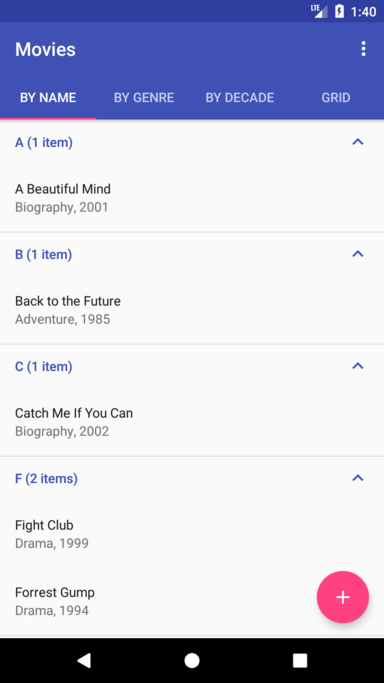
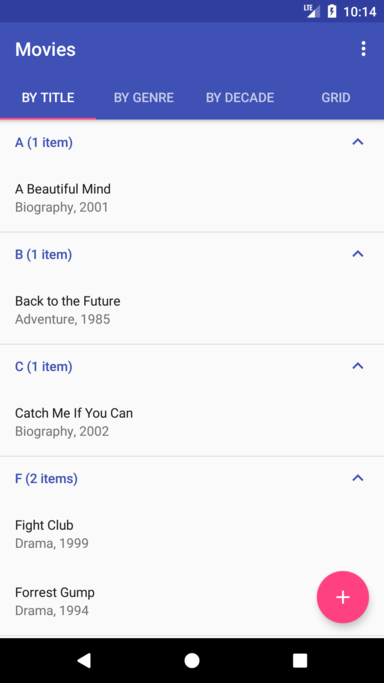
Update sample app. Update art

diff --git a/sample/src/main/java/zhukic/sample/adapters/MovieAdapterByTitle.java b/sample/src/main/java/zhukic/sample/adapters/MovieAdapterByTitle.java
@@ -7,25 +7,25 @@ import java.util.List;
 import zhukic.sample.Movie;
 import zhukic.sectionedrecyclerview.R;
 
-public class MovieAdapterByName extends BaseMovieAdapter {
+public class MovieAdapterByTitle extends BaseMovieAdapter {
 
-    public MovieAdapterByName(List<Movie> itemList) {
+    public MovieAdapterByTitle(List<Movie> itemList) {
         super(itemList);
     }
 
     @Override
     public boolean onPlaceSubheaderBetweenItems(int position) {
-        final char movieFirstCharacter = movieList.get(position).getName().charAt(0);
-        final char nextMovieFirstCharacter = movieList.get(position + 1).getName().charAt(0);
+        final char movieTitleFirstCharacter = movieList.get(position).getTitle().charAt(0);
+        final char nextMovieTitleFirstCharacter = movieList.get(position + 1).getTitle().charAt(0);
 
-        return movieFirstCharacter != nextMovieFirstCharacter;
+        return movieTitleFirstCharacter != nextMovieTitleFirstCharacter;
     }
 
     @Override
     public void onBindItemViewHolder(final MovieViewHolder holder, final int position) {
         final Movie movie = movieList.get(position);
 
-        holder.textMovieName.setText(movie.getName());
+        holder.textMovieTitle.setText(movie.getTitle());
         holder.textMovieGenre.setText(movie.getGenre());
         holder.textMovieYear.setText(String.valueOf(movie.getYear()));
 
@@ -38,10 +38,10 @@ public class MovieAdapterByName extends BaseMovieAdapter {
         final Context context = subheaderHolder.itemView.getContext();
         final Movie nextMovie = movieList.get(nextItemPosition);
         final int sectionSize = getSectionSize(getSectionIndex(subheaderHolder.getAdapterPosition()));
-        final String name = nextMovie.getName().substring(0, 1);
+        final String title = nextMovie.getTitle().substring(0, 1);
         final String subheaderText = String.format(
                 context.getString(R.string.subheader),
-                name,
+                title,
                 context.getResources().getQuantityString(R.plurals.item, sectionSize, sectionSize)
         );
         subheaderHolder.mSubheaderText.setText(subheaderText);

diff --git a/sample/src/main/java/zhukic/sample/MovieFragment.java b/sample/src/main/java/zhukic/sample/MovieFragment.java
@@ -22,7 +22,7 @@ import java.util.List;
 import zhukic.sample.adapters.BaseMovieAdapter;
 import zhukic.sample.adapters.MovieAdapterByDecade;
 import zhukic.sample.adapters.MovieAdapterByGenre;
-import zhukic.sample.adapters.MovieAdapterByName;
+import zhukic.sample.adapters.MovieAdapterByTitle;
 import zhukic.sectionedrecyclerview.R;
 
 public class MovieFragment extends Fragment implements BaseMovieAdapter.OnItemClickListener, NewMovieDialogFragment.DialogListener {
@@ -93,9 +93,9 @@ public class MovieFragment extends Fragment implements BaseMovieAdapter.OnItemCl
     }
 
     private void setAdapterByName() {
-        this.movieComparator = (o1, o2) -> o1.getName().compareTo(o2.getName());
+        this.movieComparator = (o1, o2) -> o1.getTitle().compareTo(o2.getTitle());
         Collections.sort(mMovieList, movieComparator);
-        mSectionedRecyclerAdapter = new MovieAdapterByName(mMovieList);
+        mSectionedRecyclerAdapter = new MovieAdapterByTitle(mMovieList);
     }
 
     private void setAdapterByGenre() {

diff --git a/sample/src/main/java/zhukic/sample/Movie.java b/sample/src/main/java/zhukic/sample/Movie.java
@@ -2,24 +2,24 @@ package zhukic.sample;
 
 public class Movie {
 
-    private String name;
+    private String title;
 
     private int year;
 
     private String genre;
 
-    public Movie(String name, int year, String genre) {
-        this.name = name;
+    public Movie(String title, int year, String genre) {
+        this.title = title;
         this.year = year;
         this.genre = genre;
     }
 
-    public String getName() {
-        return name;
+    public String getTitle() {
+        return title;
     }
 
-    public void setName(String name) {
-        this.name = name;
+    public void setTitle(String title) {
+        this.title = title;
     }
 
     public int getYear() {
@@ -41,7 +41,7 @@ public class Movie {
     @Override
     public String toString() {
         return "Movie{" +
-                "name='" + name + '\'' +
+                "title='" + title + '\'' +
                 ", year=" + year +
                 ", genre='" + genre + '\'' +
                 '}';

diff --git a/sample/src/main/java/zhukic/sample/adapters/BaseMovieAdapter.java b/sample/src/main/java/zhukic/sample/adapters/BaseMovieAdapter.java
@@ -50,13 +50,13 @@ public abstract class BaseMovieAdapter extends SectionedRecyclerViewAdapter<Base
 
     static class MovieViewHolder extends RecyclerView.ViewHolder {
 
-        TextView textMovieName;
+        TextView textMovieTitle;
         TextView textMovieGenre;
         TextView textMovieYear;
 
         MovieViewHolder(View itemView) {
             super(itemView);
-            this.textMovieName = (TextView) itemView.findViewById(R.id.movieName);
+            this.textMovieTitle = (TextView) itemView.findViewById(R.id.movieTitle);
             this.textMovieGenre = (TextView) itemView.findViewById(R.id.movieGenre);
             this.textMovieYear = (TextView) itemView.findViewById(R.id.movieYear);
         }

diff --git a/sample/src/main/java/zhukic/sample/MainActivity.java b/sample/src/main/java/zhukic/sample/MainActivity.java
@@ -45,7 +45,7 @@ public class MainActivity extends AppCompatActivity implements View.OnClickListe
 
     private void setupViewPager(ViewPager viewPager) {
         this.adapter = new Adapter(getSupportFragmentManager());
-        this.adapter.addFragment(new MovieFragment(), "By name");
+        this.adapter.addFragment(new MovieFragment(), "By title");
         this.adapter.addFragment(new MovieFragment(), "By genre");
         this.adapter.addFragment(new MovieFragment(), "By decade");
         this.adapter.addFragment(new MovieFragment(), "Grid");

diff --git a/sample/src/main/java/zhukic/sample/adapters/MovieAdapterByDecade.java b/sample/src/main/java/zhukic/sample/adapters/MovieAdapterByDecade.java
@@ -25,7 +25,7 @@ public class MovieAdapterByDecade extends BaseMovieAdapter {
     public void onBindItemViewHolder(final MovieViewHolder holder, final int position) {
         final Movie movie = movieList.get(position);
 
-        holder.textMovieName.setText(movie.getName());
+        holder.textMovieTitle.setText(movie.getTitle());
         holder.textMovieGenre.setText(movie.getGenre());
         holder.textMovieYear.setText(String.valueOf(movie.getYear()));
 

diff --git a/sample/src/main/java/zhukic/sample/adapters/MovieAdapterByGenre.java b/sample/src/main/java/zhukic/sample/adapters/MovieAdapterByGenre.java
@@ -24,7 +24,7 @@ public class MovieAdapterByGenre extends BaseMovieAdapter {
     public void onBindItemViewHolder(final MovieViewHolder holder, final int position) {
         final Movie movie = movieList.get(position);
 
-        holder.textMovieName.setText(movie.getName());
+        holder.textMovieTitle.setText(movie.getTitle());
         holder.textMovieGenre.setText(movie.getGenre());
         holder.textMovieYear.setText(String.valueOf(movie.getYear()));
 
